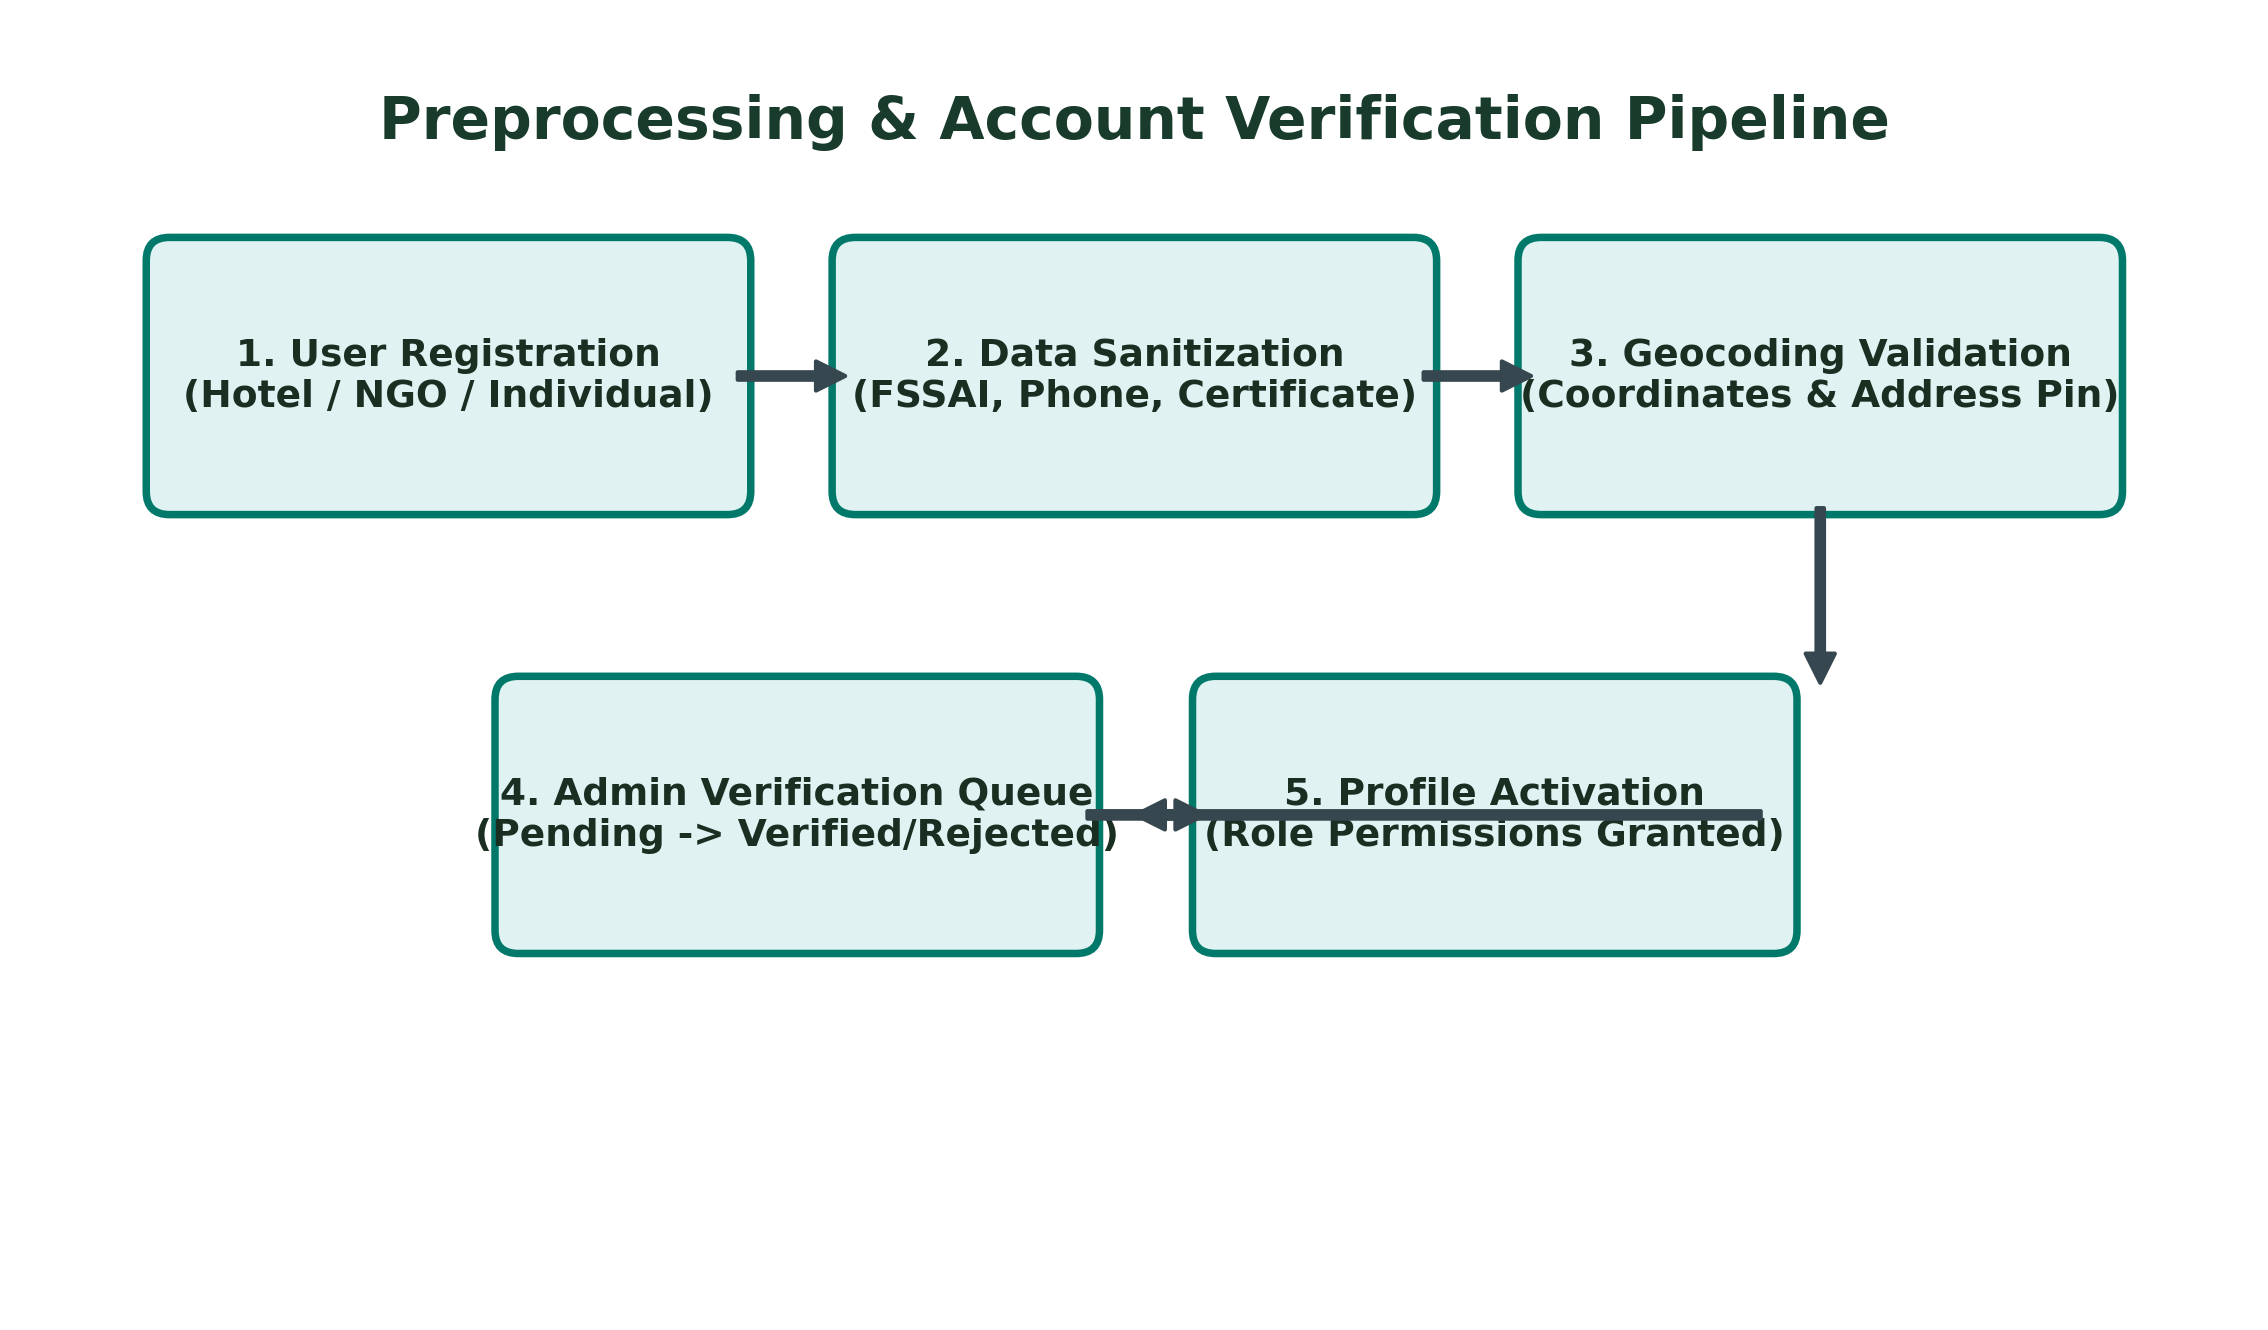
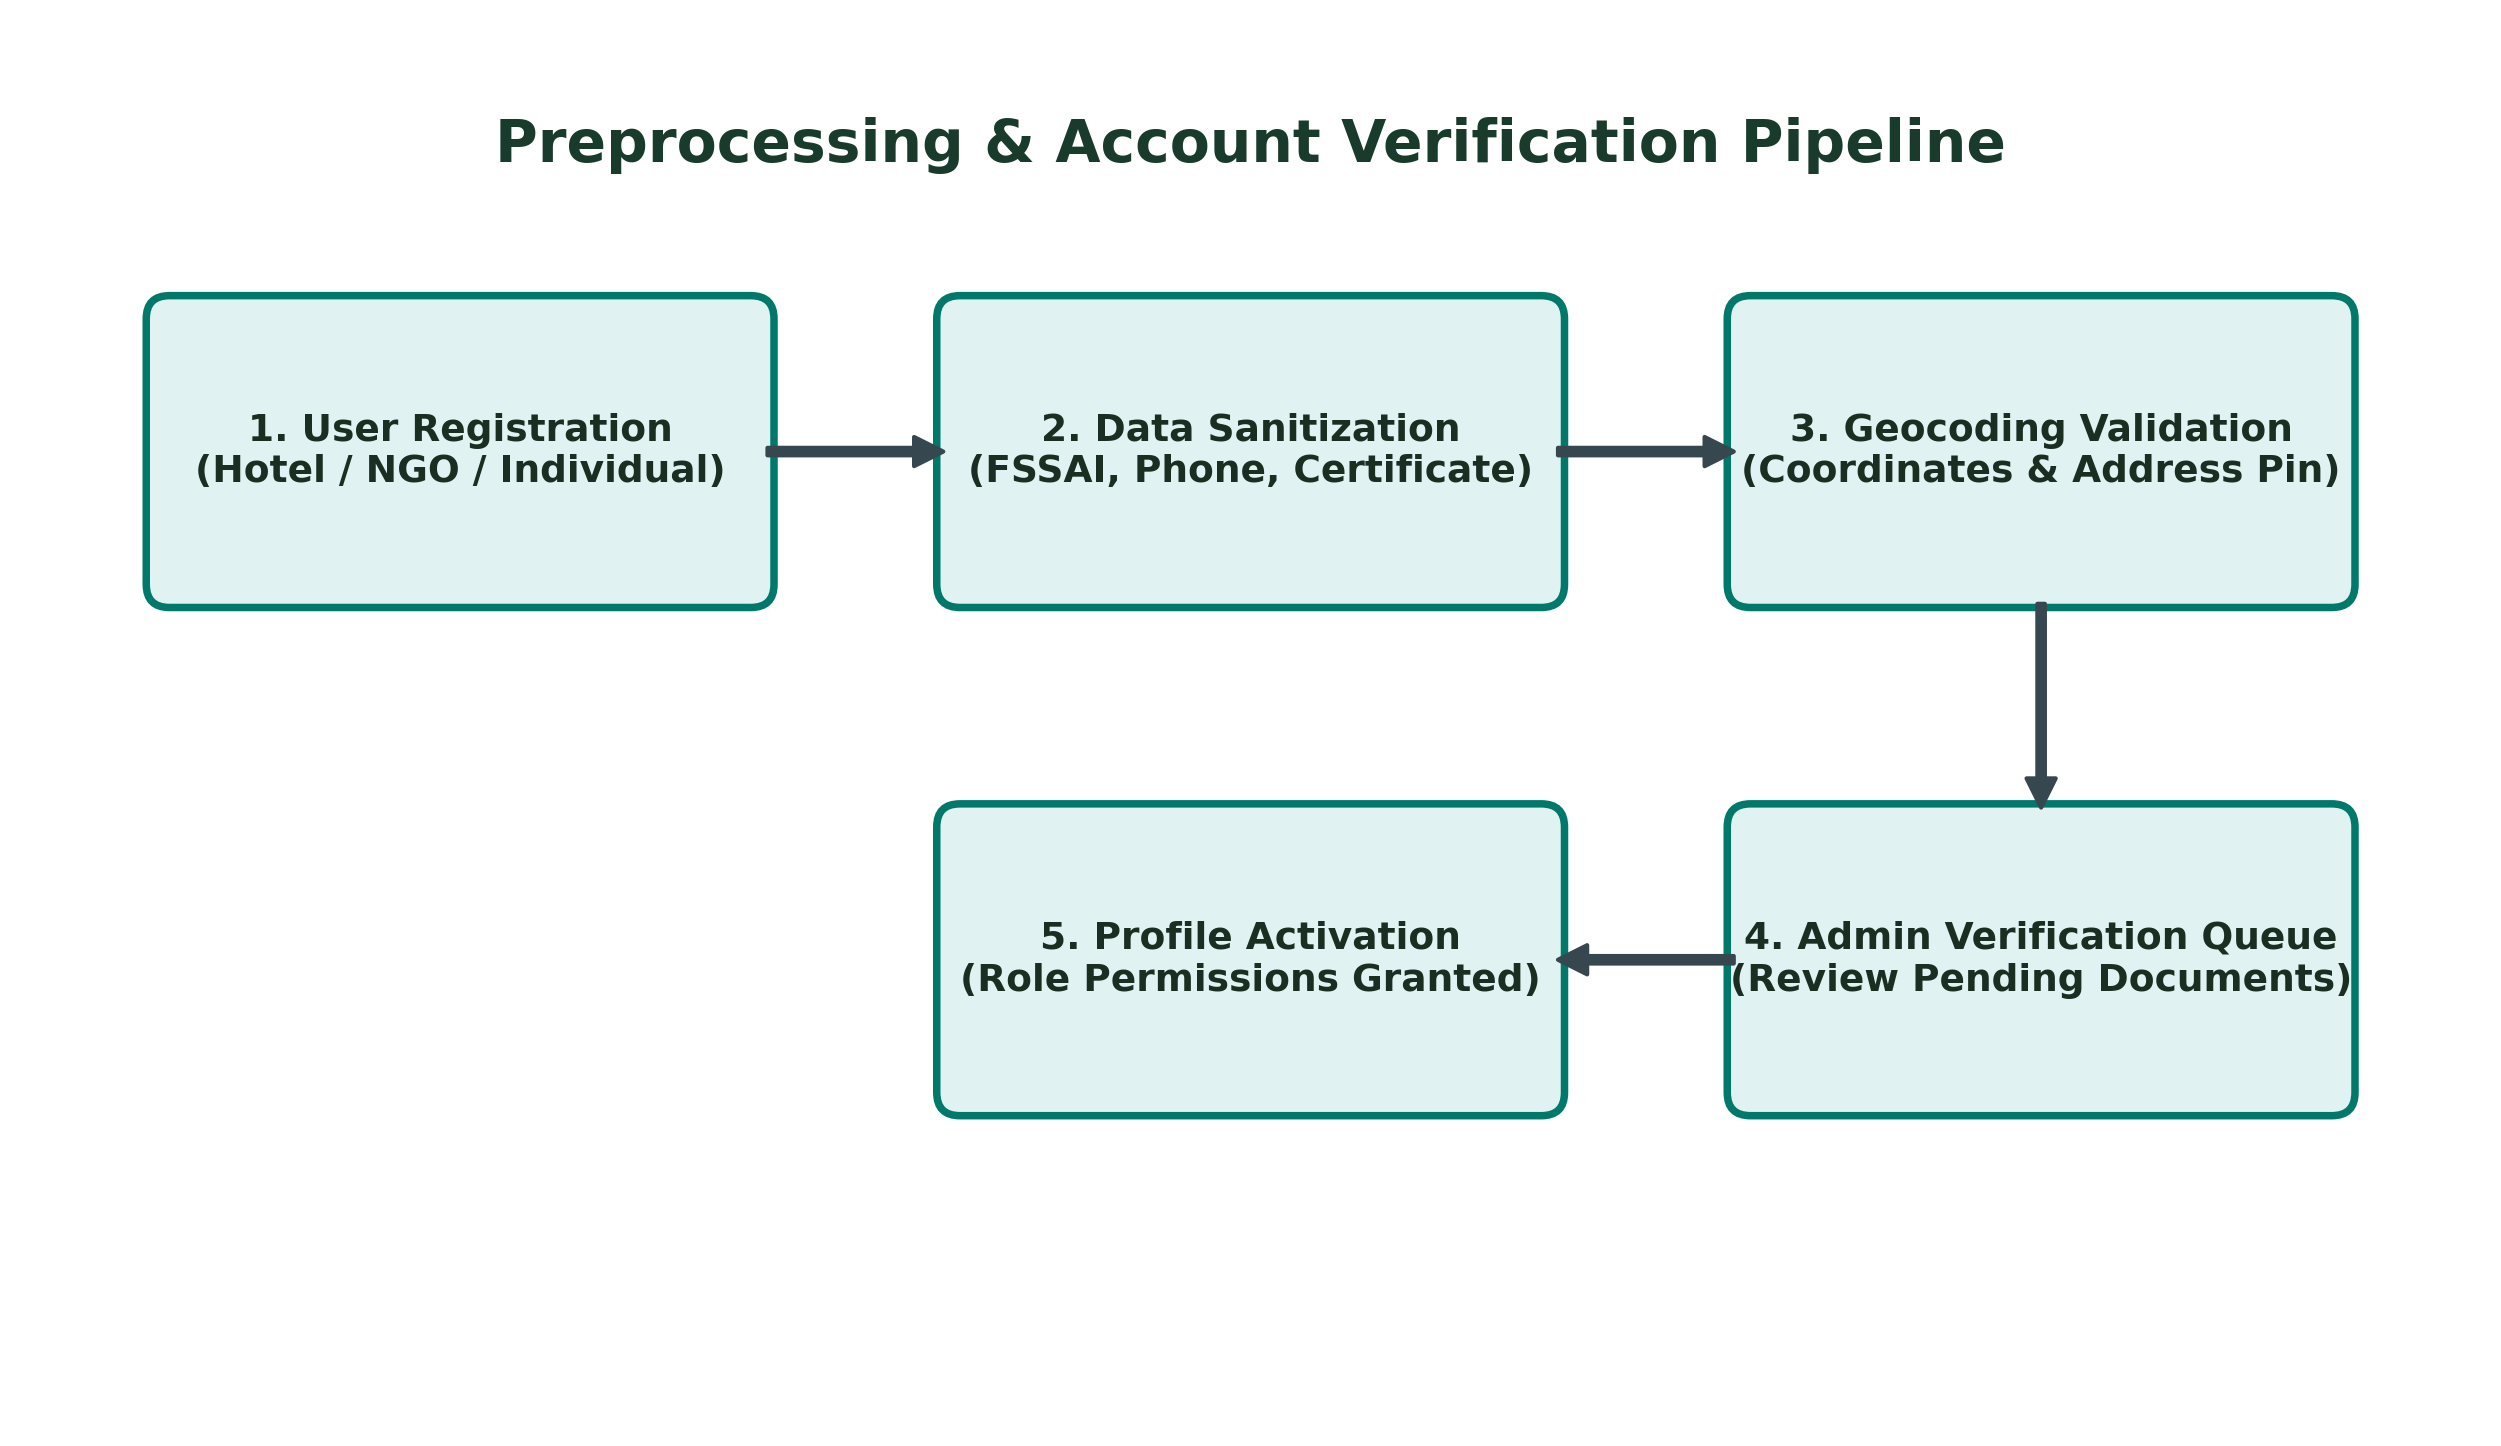
Fix workflow arrow ordering and alignment for Figure 3.4 and 3.5

Changed region(s): [[0.0309, 0.1541, 0.9568, 0.8015], [0.1543, 0.0617, 0.8333, 0.1233]]

diff --git a/generate_diagrams.py b/generate_diagrams.py
@@ -120,31 +120,44 @@ save_fig(fig, "fig_3_3_use_case_diagram.png")
 # =============================================================================
 # Figure 3.4: Preprocessing Module (Data Validation, Sanitization, Geocoding)
 # =============================================================================
-fig, ax = plt.subplots(figsize=(9.5, 5.5))
-ax.set_xlim(0, 9.5)
-ax.set_ylim(0, 5.5)
+fig, ax = plt.subplots(figsize=(10.5, 6))
+ax.set_xlim(0, 10.5)
+ax.set_ylim(0, 6)
 ax.axis('off')
 
-ax.text(4.75, 5.1, "Preprocessing & Account Verification Pipeline", ha='center', va='center', fontsize=14, fontweight='bold', color=DARK_GREEN)
+ax.text(5.25, 5.5, "Preprocessing & Account Verification Pipeline", ha='center', va='center', fontsize=14, fontweight='bold', color=DARK_GREEN)
 
-steps_pre = [
-    (0.6, 3.5, 2.4, 1.0, "1. User Registration\n(Hotel / NGO / Individual)"),
-    (3.55, 3.5, 2.4, 1.0, "2. Data Sanitization\n(FSSAI, Phone, Certificate)"),
-    (6.5, 3.5, 2.4, 1.0, "3. Geocoding Validation\n(Coordinates & Address Pin)"),
-    (2.1, 1.6, 2.4, 1.0, "4. Admin Verification Queue\n(Pending -> Verified/Rejected)"),
-    (5.1, 1.6, 2.4, 1.0, "5. Profile Activation\n(Role Permissions Granted)")
-]
+# Row 1: Left-to-Right (Steps 1 -> 2 -> 3)
+rect1 = patches.FancyBboxPatch((0.6, 3.6), 2.5, 1.15, boxstyle="round,pad=0.1", ec="#00796b", fc="#e0f2f1", lw=1.8)
+ax.add_patch(rect1)
+ax.text(1.85, 4.175, "1. User Registration\n(Hotel / NGO / Individual)", ha='center', va='center', fontsize=9, fontweight='bold', color=TEXT_COLOR)
 
-for x, y, w, h, text in steps_pre:
-    rect = patches.FancyBboxPatch((x, y), w, h, boxstyle="round,pad=0.1", ec="#00796b", fc="#e0f2f1", lw=1.8)
-    ax.add_patch(rect)
-    ax.text(x + w/2, y + h/2, text, ha='center', va='center', fontsize=9, fontweight='bold', color=TEXT_COLOR)
+rect2 = patches.FancyBboxPatch((4.0, 3.6), 2.5, 1.15, boxstyle="round,pad=0.1", ec="#00796b", fc="#e0f2f1", lw=1.8)
+ax.add_patch(rect2)
+ax.text(5.25, 4.175, "2. Data Sanitization\n(FSSAI, Phone, Certificate)", ha='center', va='center', fontsize=9, fontweight='bold', color=TEXT_COLOR)
 
-ax.annotate('', xy=(3.55, 4.0), xytext=(3.0, 4.0), arrowprops=arrow)
-ax.annotate('', xy=(6.5, 4.0), xytext=(5.95, 4.0), arrowprops=arrow)
-ax.annotate('', xy=(7.7, 2.6), xytext=(7.7, 3.5), arrowprops=arrow)
-ax.annotate('', xy=(4.5, 2.1), xytext=(7.7, 2.1), arrowprops=arrow)
-ax.annotate('', xy=(5.1, 2.1), xytext=(4.5, 2.1), arrowprops=arrow)
+rect3 = patches.FancyBboxPatch((7.4, 3.6), 2.5, 1.15, boxstyle="round,pad=0.1", ec="#00796b", fc="#e0f2f1", lw=1.8)
+ax.add_patch(rect3)
+ax.text(8.65, 4.175, "3. Geocoding Validation\n(Coordinates & Address Pin)", ha='center', va='center', fontsize=9, fontweight='bold', color=TEXT_COLOR)
+
+# Row 2: Right-to-Left (Steps 4 -> 5)
+rect4 = patches.FancyBboxPatch((7.4, 1.4), 2.5, 1.15, boxstyle="round,pad=0.1", ec="#00796b", fc="#e0f2f1", lw=1.8)
+ax.add_patch(rect4)
+ax.text(8.65, 1.975, "4. Admin Verification Queue\n(Review Pending Documents)", ha='center', va='center', fontsize=9, fontweight='bold', color=TEXT_COLOR)
+
+rect5 = patches.FancyBboxPatch((4.0, 1.4), 2.5, 1.15, boxstyle="round,pad=0.1", ec="#00796b", fc="#e0f2f1", lw=1.8)
+ax.add_patch(rect5)
+ax.text(5.25, 1.975, "5. Profile Activation\n(Role Permissions Granted)", ha='center', va='center', fontsize=9, fontweight='bold', color=TEXT_COLOR)
+
+# Clean, non-overlapping connectors:
+# Step 1 -> Step 2
+ax.annotate('', xy=(4.0, 4.175), xytext=(3.1, 4.175), arrowprops=arrow)
+# Step 2 -> Step 3
+ax.annotate('', xy=(7.4, 4.175), xytext=(6.5, 4.175), arrowprops=arrow)
+# Step 3 -> Step 4 (Straight Down)
+ax.annotate('', xy=(8.65, 2.55), xytext=(8.65, 3.6), arrowprops=arrow)
+# Step 4 -> Step 5 (Straight Left)
+ax.annotate('', xy=(6.5, 1.975), xytext=(7.4, 1.975), arrowprops=arrow)
 
 save_fig(fig, "fig_3_4_preprocessing_module.png")
 
@@ -152,31 +165,44 @@ save_fig(fig, "fig_3_4_preprocessing_module.png")
 # =============================================================================
 # Figure 3.5: Problem Solving Module (Safe-Until Clock & Smart Match Allocation)
 # =============================================================================
-fig, ax = plt.subplots(figsize=(10, 5.8))
-ax.set_xlim(0, 10)
-ax.set_ylim(0, 5.8)
+fig, ax = plt.subplots(figsize=(10.5, 6))
+ax.set_xlim(0, 10.5)
+ax.set_ylim(0, 6)
 ax.axis('off')
 
-ax.text(5, 5.4, "Problem Solving: Surplus Allocation & Safe-Until Clock", ha='center', va='center', fontsize=14, fontweight='bold', color=DARK_GREEN)
+ax.text(5.25, 5.5, "Problem Solving: Surplus Allocation & Safe-Until Clock", ha='center', va='center', fontsize=14, fontweight='bold', color=DARK_GREEN)
 
-nodes_3_5 = [
-    (0.6, 3.6, 2.5, 1.05, "1. Surplus Listing Posted\n(Multiple Items + Safe-Until)"),
-    (3.75, 3.6, 2.5, 1.05, "2. Smart Match Ranking\n(Distance, Capacity, Rating)"),
-    (6.9, 3.6, 2.5, 1.05, "3. 10-Min First Look\n(Broadcast to Top 5 NGOs)"),
-    (2.15, 1.6, 2.5, 1.05, "4. Feasibility Check\n(ETA must be <= Safe-Until)"),
-    (5.3, 1.6, 2.5, 1.05, "5. Atomic Stock Allocation\n(select_for_update Row Lock)")
-]
+# Row 1: Left-to-Right (Steps 1 -> 2 -> 3)
+box1 = patches.FancyBboxPatch((0.6, 3.6), 2.5, 1.15, boxstyle="round,pad=0.1", ec="#c62828", fc="#ffebee", lw=1.8)
+ax.add_patch(box1)
+ax.text(1.85, 4.175, "1. Surplus Listing Posted\n(Multiple Items + Safe-Until)", ha='center', va='center', fontsize=9, fontweight='bold', color=TEXT_COLOR)
 
-for x, y, w, h, text in nodes_3_5:
-    rect = patches.FancyBboxPatch((x, y), w, h, boxstyle="round,pad=0.1", ec="#c62828", fc="#ffebee", lw=1.8)
-    ax.add_patch(rect)
-    ax.text(x + w/2, y + h/2, text, ha='center', va='center', fontsize=9, fontweight='bold', color=TEXT_COLOR)
+box2 = patches.FancyBboxPatch((4.0, 3.6), 2.5, 1.15, boxstyle="round,pad=0.1", ec="#c62828", fc="#ffebee", lw=1.8)
+ax.add_patch(box2)
+ax.text(5.25, 4.175, "2. Smart Match Ranking\n(Distance, Capacity, Rating)", ha='center', va='center', fontsize=9, fontweight='bold', color=TEXT_COLOR)
 
-ax.annotate('', xy=(3.75, 4.12), xytext=(3.1, 4.12), arrowprops=arrow)
-ax.annotate('', xy=(6.9, 4.12), xytext=(6.25, 4.12), arrowprops=arrow)
-ax.annotate('', xy=(8.15, 2.65), xytext=(8.15, 3.6), arrowprops=arrow)
-ax.annotate('', xy=(4.65, 2.12), xytext=(8.15, 2.12), arrowprops=arrow)
-ax.annotate('', xy=(5.3, 2.12), xytext=(4.65, 2.12), arrowprops=arrow)
+box3 = patches.FancyBboxPatch((7.4, 3.6), 2.5, 1.15, boxstyle="round,pad=0.1", ec="#c62828", fc="#ffebee", lw=1.8)
+ax.add_patch(box3)
+ax.text(8.65, 4.175, "3. 10-Min First Look\n(Broadcast to Top 5 NGOs)", ha='center', va='center', fontsize=9, fontweight='bold', color=TEXT_COLOR)
+
+# Row 2: Right-to-Left (Steps 4 -> 5)
+box4 = patches.FancyBboxPatch((7.4, 1.4), 2.5, 1.15, boxstyle="round,pad=0.1", ec="#c62828", fc="#ffebee", lw=1.8)
+ax.add_patch(box4)
+ax.text(8.65, 1.975, "4. Feasibility Check\n(ETA must be <= Safe-Until)", ha='center', va='center', fontsize=9, fontweight='bold', color=TEXT_COLOR)
+
+box5 = patches.FancyBboxPatch((4.0, 1.4), 2.5, 1.15, boxstyle="round,pad=0.1", ec="#c62828", fc="#ffebee", lw=1.8)
+ax.add_patch(box5)
+ax.text(5.25, 1.975, "5. Atomic Stock Allocation\n(select_for_update Row Lock)", ha='center', va='center', fontsize=9, fontweight='bold', color=TEXT_COLOR)
+
+# Connectors: clean serpentine workflow
+# Step 1 -> Step 2
+ax.annotate('', xy=(4.0, 4.175), xytext=(3.1, 4.175), arrowprops=arrow)
+# Step 2 -> Step 3
+ax.annotate('', xy=(7.4, 4.175), xytext=(6.5, 4.175), arrowprops=arrow)
+# Step 3 -> Step 4 (Straight Down)
+ax.annotate('', xy=(8.65, 2.55), xytext=(8.65, 3.6), arrowprops=arrow)
+# Step 4 -> Step 5 (Straight Left into Step 5)
+ax.annotate('', xy=(6.5, 1.975), xytext=(7.4, 1.975), arrowprops=arrow)
 
 save_fig(fig, "fig_3_5_problem_solving_module.png")
 
